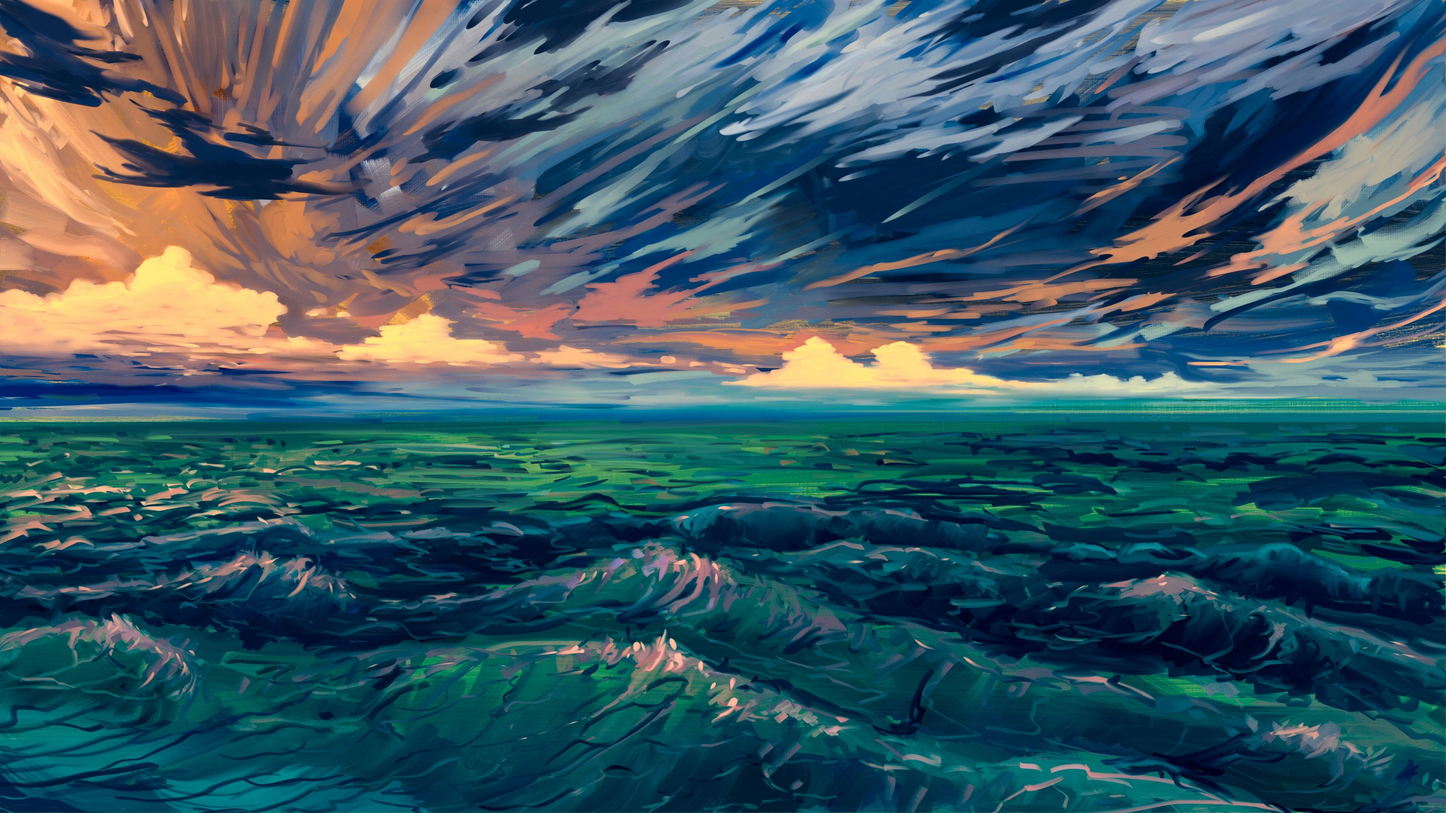
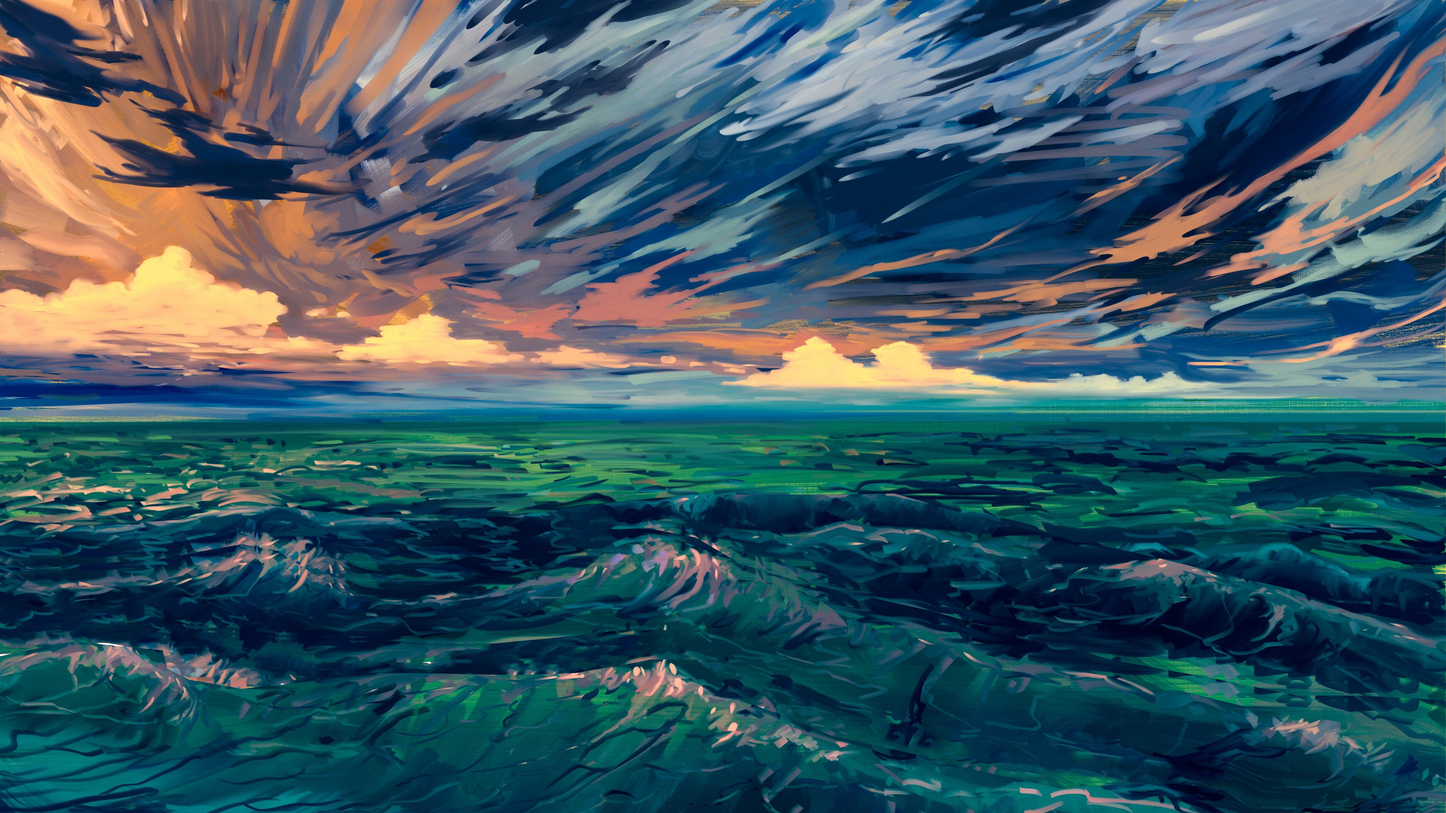
3commit

Changed region(s): [[0.0, 0.5894, 1.0, 1.0]]

diff --git a/index.html b/index.html
@@ -19,33 +19,16 @@
 
 
     body {
-            background-image: url(picture/bg1.jpg);
+            background-image: url(./picture/11.jpg);
             background-repeat: no-repeat;
             background-size: 100%;
             background-attachment: fixed;
             margin: 0px;
 
-        @-webkit-keyframes changeBg {
-            0% {
-                background-image: ("C:\Users\CHISANUCHASOMBOONWAN\Desktop\ProjectWeb\picture\bg1.png") 
-         }
-         25% {
-            background-image: ("C:\Users\CHISANUCHASOMBOONWAN\Desktop\ProjectWeb\picture\wave1.png")
-         }
-         50%{
-            background-image: ("C:\Users\CHISANUCHASOMBOONWAN\Desktop\ProjectWeb\picture\wave2.png")
-         }
-         100%{
-            background-image: ("C:\Users\CHISANUCHASOMBOONWAN\Desktop\ProjectWeb\picture\wave3.png")
-         }
-
-
-
-           
-
-        }
+      
     }
-
+        
+  
         ul {
             list-style-type: none;
             background-color: #052F35;
@@ -188,6 +171,18 @@
             font-family: 'Pacifico';
         }
 
+        #wave1{
+            width: 1650 px;
+            height: 1000px;
+            position: relative;
+            animation-name: wave1;
+            animation-duration: 10s;
+            animation-iteration-count: infinite;
+            margin-top: 50px;
+            
+
+
+        }
 
     </style>
    
@@ -207,9 +202,15 @@
             </li>
         </a>
     </ul>
-    <img id="motion1" src="./animetion/cloud-2421760_960_720.png" alt="cloud">
+  
+   
+    <img id="motion1" src="./animetion/cloud-2421760_960_720.png"  alt="cloud">
     <img id="motion2" src="./animetion/cloud-2421760_960_720.png" alt="cloud">
     <h1 class="zoomprofile">PORTFOLIO</h1>
+
+    <img id="wave1" src=".//picture/wave1.png" alt="background">
+   
+    
 
 </body>
 

diff --git a/profile.html b/profile.html
@@ -14,10 +14,7 @@
         background-repeat: no-repeat; 
         background-attachment: fixed;
         margin: 0px;       
-
-        h1{
             
-        }
       }
       ul {
             list-style-type: none;
